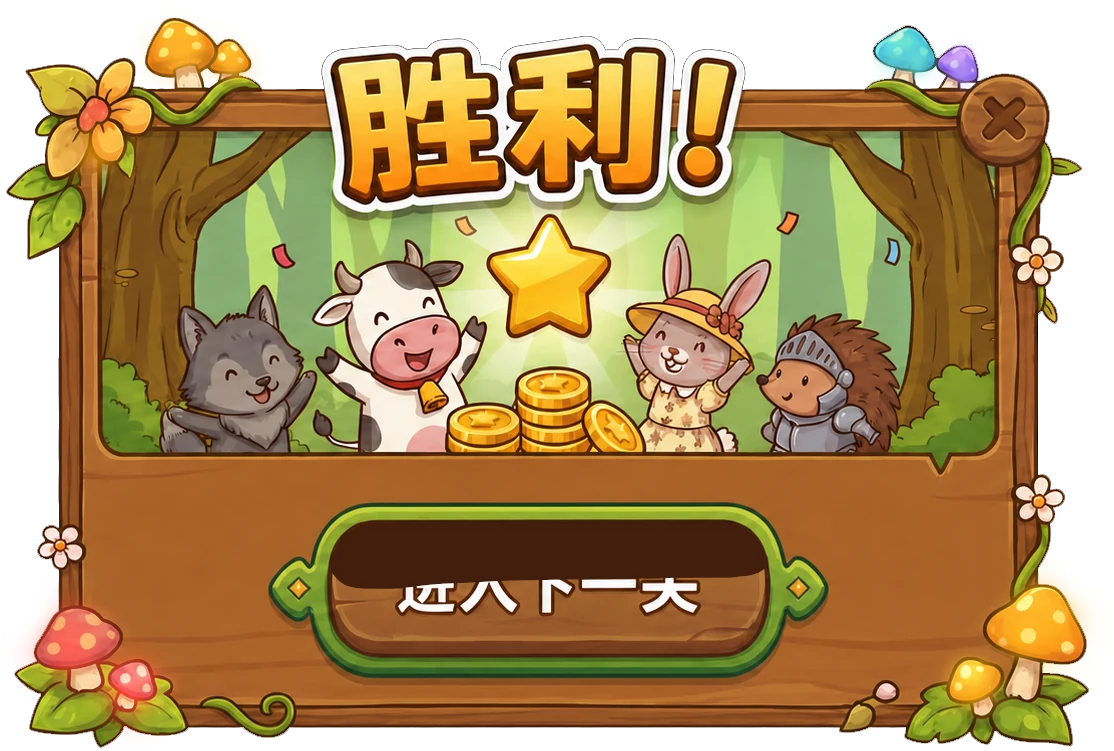
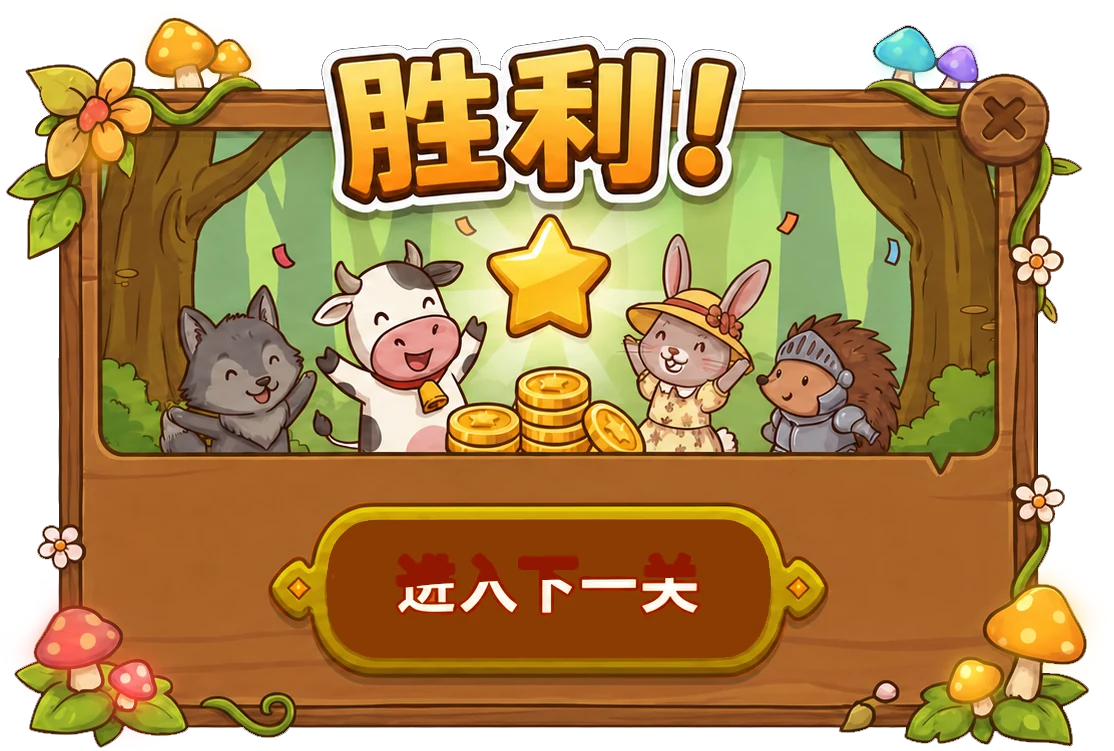
胜利面板换成新版底图和绿色按钮；加入失败面板（重试 / X 复用胜利面板的 X），底图未到位时退回原文字弹窗

Changed region(s): [[0.2442, 0.6431, 0.763, 0.9188]]

diff --git a/index.html b/index.html
@@ -8,7 +8,7 @@
     <meta name="mobile-web-app-capable" content="yes" />
     <title>抽乌龟（儿童英语学习版）</title>
     <link rel="manifest" href="./manifest.json" />
-    <link rel="stylesheet" href="./styles.css?v=20261029m" />
+    <link rel="stylesheet" href="./styles.css?v=20261029n" />
   </head>
   <body>
     <div class="app">
@@ -145,6 +145,14 @@
             <button id="btnWinClose" class="winBtn winClose" type="button" aria-label="关闭"><img src="./assets/ui_buttons/win-close.png" alt="" draggable="false" /></button>
           </div>
         </div>
+        <!-- 失败面板：和胜利面板同一套版式（底图 + 重试 + X，X 复用胜利面板的图） -->
+        <div id="loseOverlay" class="winOverlay hidden" role="dialog" aria-modal="true" aria-label="失败">
+          <div class="winPanel">
+            <img class="winPanelBg" src="./assets/ui_buttons/lose-panel.webp" alt="失败…" draggable="false" />
+            <button id="btnLoseRetry" class="winBtn winNext" type="button" aria-label="重试"><img src="./assets/ui_buttons/lose-retry.png" alt="" draggable="false" /></button>
+            <button id="btnLoseClose" class="winBtn winClose" type="button" aria-label="关闭"><img src="./assets/ui_buttons/win-close.png" alt="" draggable="false" /></button>
+          </div>
+        </div>
         <div id="endOverlay" class="endOverlay hidden" role="dialog" aria-modal="true">
           <div class="endCard">
             <div id="endTitle" class="endTitle"></div>
@@ -185,12 +193,12 @@
     <script src="https://cdnjs.cloudflare.com/ajax/libs/three.js/r128/three.min.js"></script>
 
     <!-- deck -->
-    <script src="./deck/image_pairs.js?v=20261029m"></script>
+    <script src="./deck/image_pairs.js?v=20261029n"></script>
     <!-- Joker summon effect -->
-    <script src="./src/joker-summon.js?v=20261029m"></script>
+    <script src="./src/joker-summon.js?v=20261029n"></script>
     <!-- app (no modules so file:// works) -->
-    <script src="./src/game.js?v=20261029m"></script>
-    <script src="./src/ui.js?v=20261029m"></script>
+    <script src="./src/game.js?v=20261029n"></script>
+    <script src="./src/ui.js?v=20261029n"></script>
     <script>
       // 图片预加载功能
       function preloadImages(imagePairs, onProgress, onComplete) {
@@ -217,6 +225,8 @@
         images.push('./assets/ui_buttons/win-panel.webp');
         images.push('./assets/ui_buttons/win-next.png');
         images.push('./assets/ui_buttons/win-close.png');
+        images.push('./assets/ui_buttons/lose-panel.webp');
+        images.push('./assets/ui_buttons/lose-retry.png');
 
         let loaded = 0;
         const total = images.length;

diff --git a/src/ui.js b/src/ui.js
@@ -3781,6 +3781,7 @@ function initUi(imagePairs = []) {
     $("#game").classList.remove("hidden");
     endOverlay.classList.add("hidden");
     $("#winOverlay").classList.add("hidden");
+    $("#loseOverlay").classList.add("hidden");
     updateTuneButtonState();
     selected = [];
     // Deal animation: render seats, then slide cards in from bottom with delays (no opacity changes).
@@ -4157,6 +4158,7 @@ function initUi(imagePairs = []) {
     runAiLoop._t = null;
     endOverlay.classList.add("hidden");
     $("#winOverlay").classList.add("hidden");
+    $("#loseOverlay").classList.add("hidden");
     updateTuneButtonState();
   }
 
@@ -4173,6 +4175,16 @@ function initUi(imagePairs = []) {
       console.error(`[关卡切换] 清除失败:`, e);
     }
 
+    showSetupScreen();
+  });
+
+  // 失败面板：重试 = 重新挑战本关；X = 回设置页，进度不变（再点开始游戏还是这一关）
+  $("#btnLoseRetry").addEventListener("click", () => {
+    $("#loseOverlay").classList.add("hidden");
+    startNewGame();
+  });
+  $("#btnLoseClose").addEventListener("click", () => {
+    $("#loseOverlay").classList.add("hidden");
     showSetupScreen();
   });
 
@@ -5872,6 +5884,12 @@ function initUi(imagePairs = []) {
 
       // 显示关卡结果
       if (youLose) {
+        // 失败面板底图加载成功就用新面板（重试 / X）；没有底图时退回原来的文字弹窗
+        const loseBg = document.querySelector("#loseOverlay .winPanelBg");
+        if (loseBg && loseBg.complete && loseBg.naturalWidth > 0) {
+          $("#loseOverlay").classList.remove("hidden");
+          return;
+        }
         // 失败：只能重新挑战本关
         endTitle.textContent = `第${currentLevel}关失败`;
         endSubtitle.textContent = `你手里留着"王八牌"！`;
